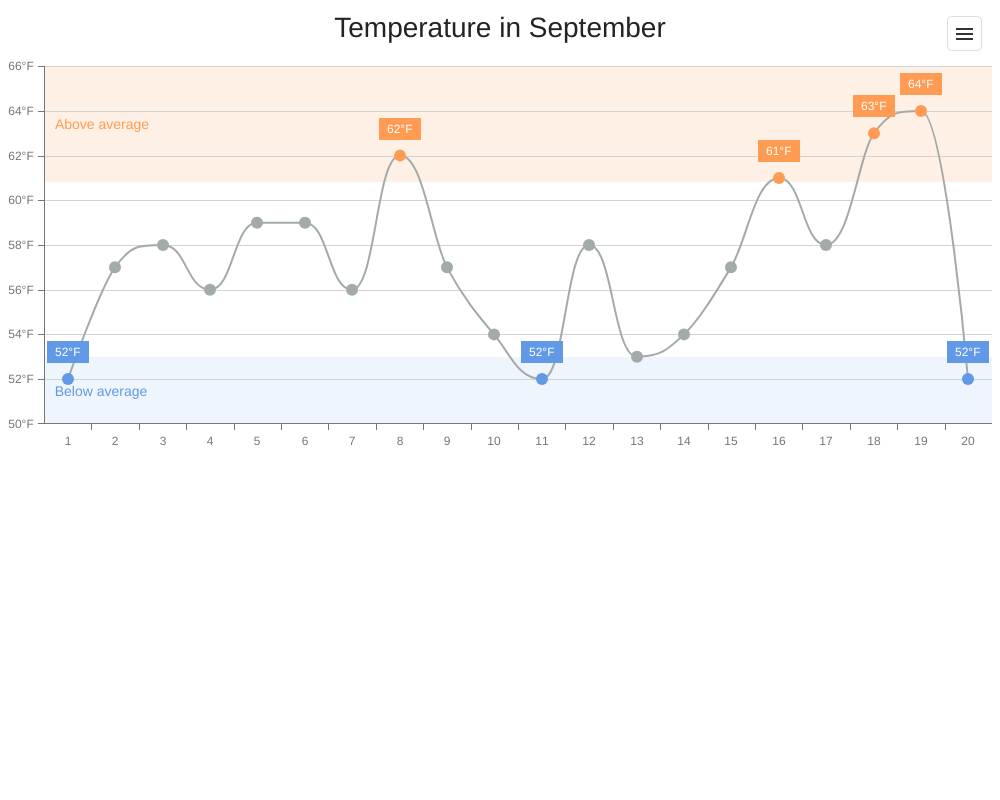
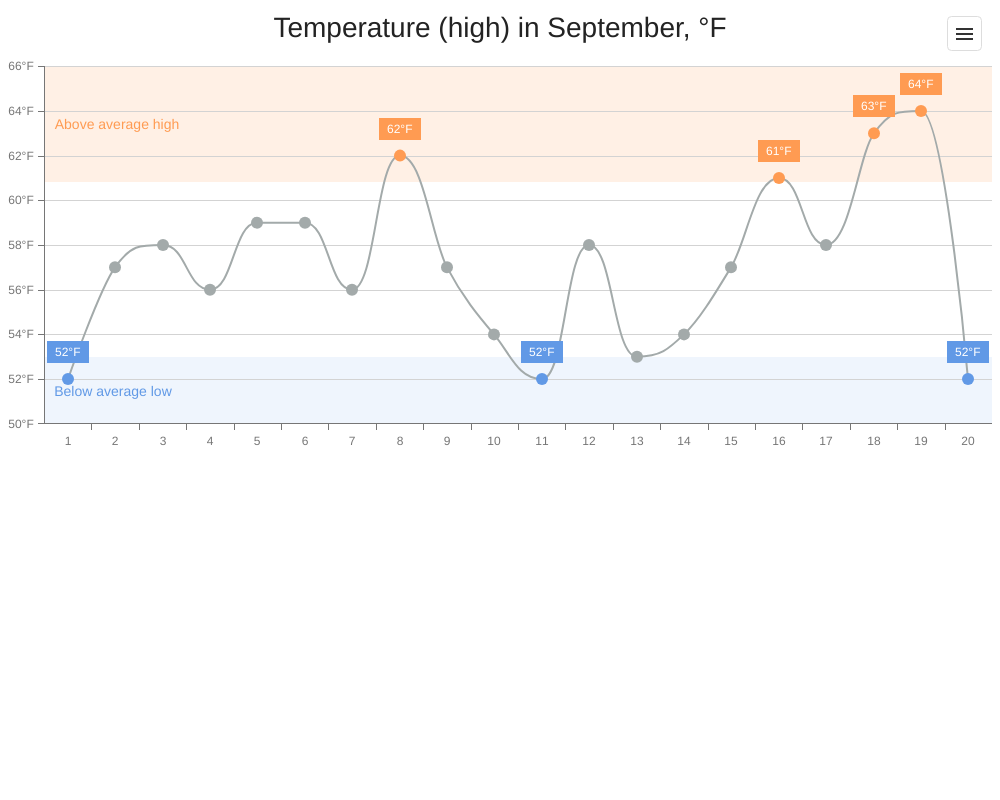
Strips Demo : Updated Chart Title and Labels (#3147)
* Unify Toast (Vue & Angular)

Added 600 ms display time for Vue and Angular toast

* Revert "Unify Toast (Vue & Angular)"

This reverts commit 84f2e34ad7901e86a27ed7a63367897fcb39034e.

* Strips Update Text (jQuery)

* Strips Update Text (Angular)

* Strips Update Text (React & React JS)

* Strips Update Text (Vue)

* Add (high) to Title

* Strips Update Text (MVC)

* Strips Update Text (NetCore)

* Update Charts-Strips Etalon

* Standardize Degree Symbol

* Convert to React JS

Changed region(s): [[0.279, 0.0, 0.682, 0.0625], [0.062, 0.4688, 0.186, 0.5]]

diff --git a/JSDemos/Demos/Charts/Strips/React/App.tsx b/JSDemos/Demos/Charts/Strips/React/App.tsx
@@ -51,7 +51,7 @@ function App() {
   return (
     <Chart
       id="chart"
-      title="Temperature in September"
+      title="Temperature (high) in September, &#176;F"
       dataSource={temperaturesData}
       customizePoint={customizePoint}
       customizeLabel={customizeLabel}
@@ -65,12 +65,12 @@ function App() {
       <ValueAxis>
         <Label customizeText={customizeText} />
         <Strip startValue={highAverage} color="rgba(255,155,85,0.15)">
-          <Label text="Above average">
+          <Label text="Above average high">
             <Font color={highAverageColor} />
           </Label>
         </Strip>
         <Strip endValue={lowAverage} color="rgba(97,153,230,0.10)">
-          <Label text="Below average">
+          <Label text="Below average low">
             <Font color={lowAverageColor} />
           </Label>
         </Strip>

diff --git a/JSDemos/Demos/Charts/Strips/ReactJs/App.js b/JSDemos/Demos/Charts/Strips/ReactJs/App.js
@@ -46,7 +46,7 @@ function App() {
   return (
     <Chart
       id="chart"
-      title="Temperature in September"
+      title="Temperature (high) in September, &#176;F"
       dataSource={temperaturesData}
       customizePoint={customizePoint}
       customizeLabel={customizeLabel}
@@ -63,7 +63,7 @@ function App() {
           startValue={highAverage}
           color="rgba(255,155,85,0.15)"
         >
-          <Label text="Above average">
+          <Label text="Above average high">
             <Font color={highAverageColor} />
           </Label>
         </Strip>
@@ -71,7 +71,7 @@ function App() {
           endValue={lowAverage}
           color="rgba(97,153,230,0.10)"
         >
-          <Label text="Below average">
+          <Label text="Below average low">
             <Font color={lowAverageColor} />
           </Label>
         </Strip>

diff --git a/JSDemos/Demos/Charts/Strips/Angular/app/app.component.html b/JSDemos/Demos/Charts/Strips/Angular/app/app.component.html
@@ -1,7 +1,7 @@
 <dx-chart
   id="chart"
   [dataSource]="temperaturesData"
-  title="Temperature in September"
+  title="Temperature (high) in September, &#176;F"
   [customizePoint]="customizePoint"
   [customizeLabel]="customizeLabel"
 >
@@ -14,12 +14,12 @@
   <dxi-value-axis>
     <dxo-label [customizeText]="customizeText"></dxo-label>
     <dxi-strip [startValue]="highAverage" color="rgba(255,155,85,0.15)">
-      <dxo-label text="Above average">
+      <dxo-label text="Above average high">
         <dxo-font [color]="highAverageColor"></dxo-font>
       </dxo-label>
     </dxi-strip>
     <dxi-strip [endValue]="lowAverage" color="rgba(97,153,230,0.10)">
-      <dxo-label text="Below average">
+      <dxo-label text="Below average low">
         <dxo-font [color]="lowAverageColor"></dxo-font>
       </dxo-label>
     </dxi-strip>

diff --git a/JSDemos/Demos/Charts/Strips/Vue/App.vue b/JSDemos/Demos/Charts/Strips/Vue/App.vue
@@ -4,7 +4,7 @@
     :customize-point="customizePoint"
     :customize-label="customizeLabel"
     :data-source="dataSource"
-    title="Temperature in September"
+    title="Temperature (high) in September, &#176;F"
   >
     <DxSeries
       argument-field="day"
@@ -18,7 +18,7 @@
         :start-value="highAverage"
         color="rgba(255,155,85,0.15)"
       >
-        <DxLabel text="Above average">
+        <DxLabel text="Above average high">
           <DxFont :color="highAverageColor"/>
         </DxLabel>
       </DxStrip>
@@ -26,7 +26,7 @@
         :end-value="lowAverage"
         color="rgba(97,153,230,0.10)"
       >
-        <DxLabel text="Below average">
+        <DxLabel text="Below average low">
           <DxFont :color="lowAverageColor"/>
         </DxLabel>
       </DxStrip>

diff --git a/JSDemos/Demos/Charts/Strips/jQuery/index.js b/JSDemos/Demos/Charts/Strips/jQuery/index.js
@@ -18,7 +18,7 @@ $(() => {
       },
       strips: [{
         label: {
-          text: 'Above average',
+          text: 'Above average high',
           font: {
             color: highAverageColor,
           },
@@ -28,7 +28,7 @@ $(() => {
       },
       {
         label: {
-          text: 'Below average',
+          text: 'Below average low',
           font: {
             color: lowAverageColor,
           },
@@ -48,7 +48,7 @@ $(() => {
     export: {
       enabled: true,
     },
-    title: 'Temperature in September',
+    title: 'Temperature (high) in September, &#176;F',
     legend: {
       visible: false,
     },
